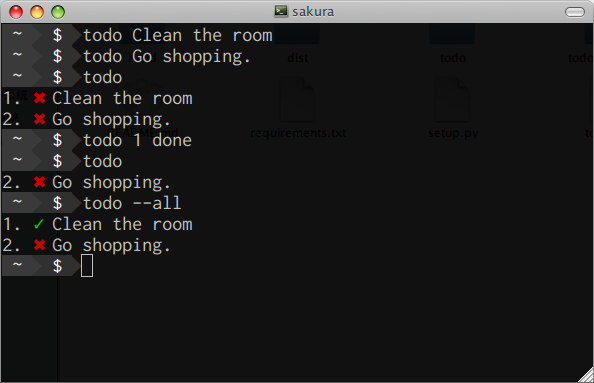
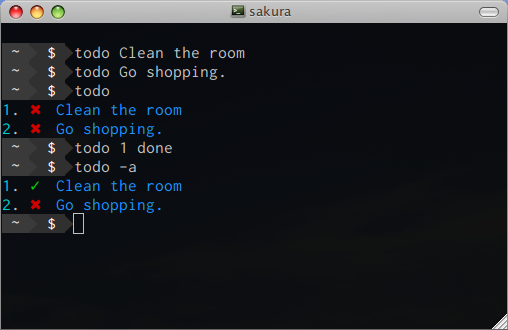
different color

Changed region(s): [[0.0, 0.0, 1.0, 0.7273], [0.9744, 0.9394, 1.0, 1.0]]

diff --git a/todo/script.py b/todo/script.py
@@ -17,6 +17,7 @@ Examples:
   Check a task as undone        todo 1 undne
   Print all tasks               todo --all
   Print undone tasks            todo
+  Remove a task                 todo 1 remove
 """
 
 
@@ -75,7 +76,9 @@ class TodoApp(object):
         Print single task to terminal.
         """
         status = colored('✓', 'green') if task.done else colored('✖', 'red')
-        print str(task.id) + '.' + ' ' + status + '  ' + task.content
+        content = colored(task.content, "blue")
+        task_id = colored(str(task.id), "cyan")
+        print task_id + '.' + ' ' + status + '  ' + content
 
     def print_task_by_id(self, id):
         """

diff --git a/setup.py b/setup.py
@@ -12,12 +12,12 @@ setup(
     keywords="todo readable commandline cli",
     url='http://github.com/hit9/todo',
     packages=['todo'],
-    include_package_data = True,
-    entry_points = {
+    include_package_data=True,
+    entry_points={
         'console_scripts': [
             'todo = todo.script:main'
         ]
     },
     long_description=open('README.md').read(),
-    install_requires = open("requirements.txt").read().splitlines()
+    install_requires=open("requirements.txt").read().splitlines()
 )

diff --git a/README.md b/README.md
@@ -19,7 +19,7 @@ Usage
 Usage:
   test.py [-h|-v|-a]
   test.py clear
-  test.py (<id> [done|undone])|<task>...
+  test.py (<id> [done|undone|remove])|<task>...
 
 Options:
   -h --help      show this message
@@ -32,6 +32,7 @@ Examples:
   Check a task as undone        todo 1 undne
   Print all tasks               todo --all
   Print undone tasks            todo
+  Remove a task                 todo 1 remove
 ```
 
 Storage
